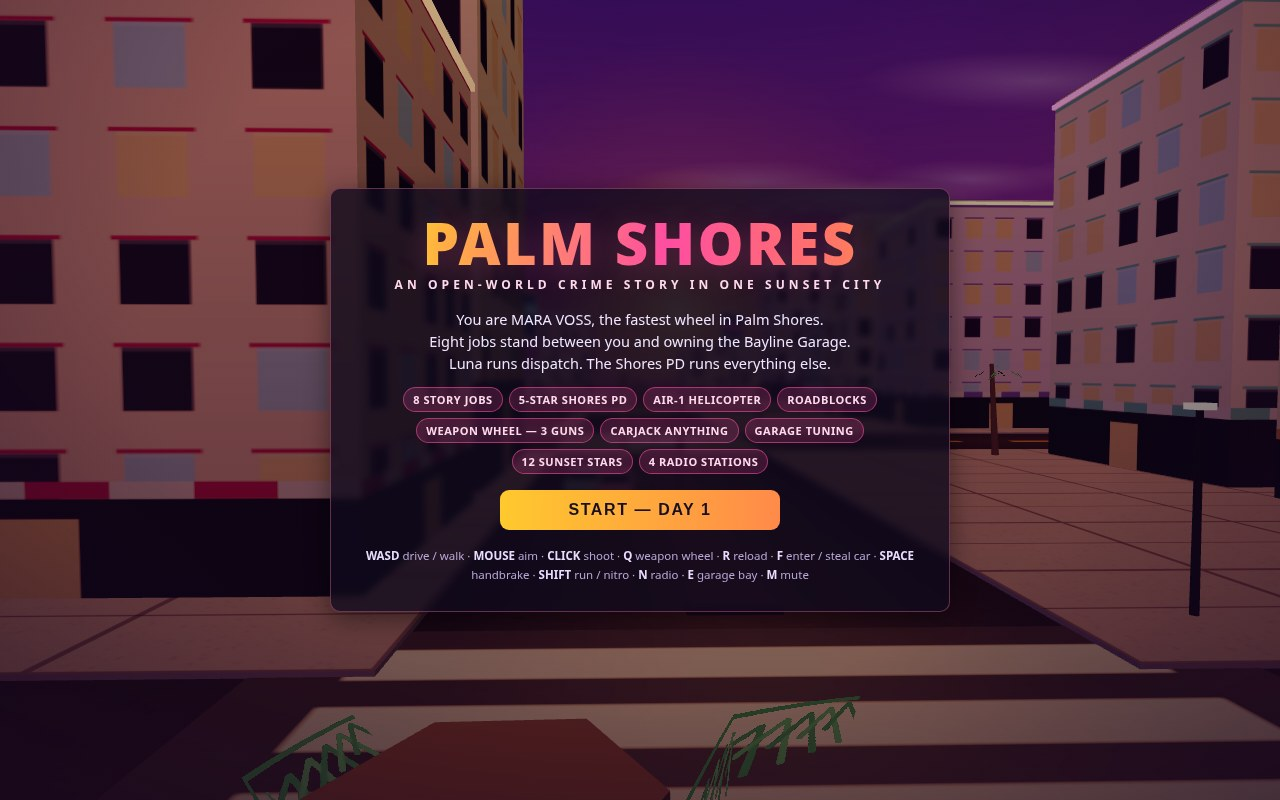
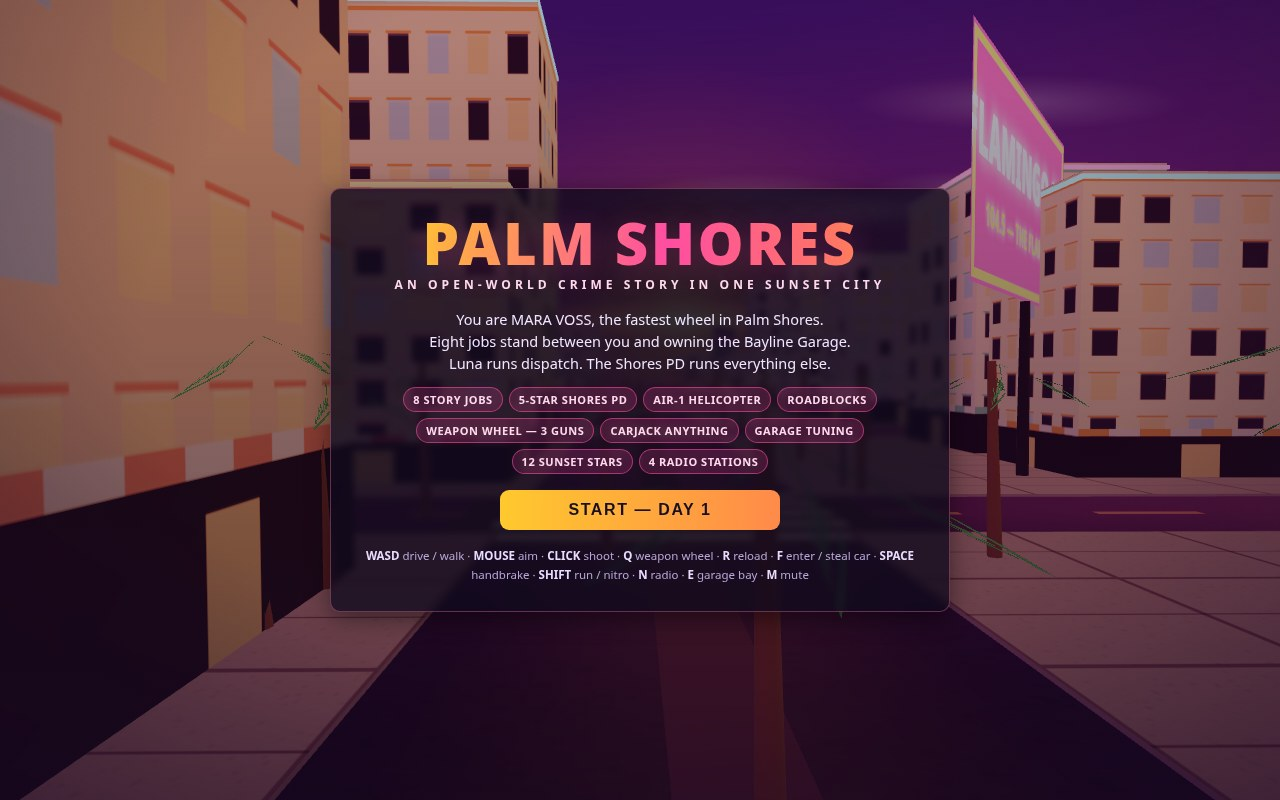
Round 6 visual pass — wet glossy neon look: sunset environment reflections on asphalt and paint, cruiser strobe halos and under-glow, hero-car light pool, denser bigger avenue palms, neon blade signs with road bleed, lamp halos, sun glare streak, richer exposure

diff --git a/game/src/city.js b/game/src/city.js
@@ -25,8 +25,8 @@ function palmCrownGeometry(leafTex) {
   for (let f = 0; f < 8; f++) {
     const a = (f / 8) * Math.PI * 2, ca = Math.cos(a), sa = Math.sin(a);
     const px = -sa, pz = ca, base = f * 4;
-    const tipX = ca * 3.1, tipZ = sa * 3.1;
-    pos.push(-px * 0.06, 0, -pz * 0.06, px * 0.06, 0, pz * 0.06, tipX - px * 0.3, -1.0, tipZ - pz * 0.3, tipX + px * 0.3, -1.0, tipZ + pz * 0.3);
+    const tipX = ca * 3.9, tipZ = sa * 3.9;
+    pos.push(-px * 0.06, 0, -pz * 0.06, px * 0.06, 0, pz * 0.06, tipX - px * 0.3, -1.3, tipZ - pz * 0.3, tipX + px * 0.3, -1.3, tipZ + pz * 0.3);
     uv.push(0, 0, 1, 0, 0.08, 1, 0.92, 1);
     idx.push(base, base + 1, base + 2, base + 1, base + 3, base + 2);
   }
@@ -48,6 +48,7 @@ export function buildWorld(scene, rng) {
 
   // ---- sky, light and air -------------------------------------------------
   scene.fog = new THREE.Fog(0xc64b74, 90, 460);
+  scene.environment = TX.sunsetEnvTexture(); // the sunset every glossy surface reflects
   const sky = new THREE.Mesh(new THREE.SphereGeometry(880, 24, 16),
     new THREE.MeshBasicMaterial({ map: TX.skyTexture(), side: THREE.BackSide, fog: false }));
   scene.add(sky);
@@ -60,6 +61,9 @@ export function buildWorld(scene, rng) {
   const sunHalo = new THREE.Sprite(new THREE.SpriteMaterial({ map: glowTex, color: 0xff7a9c, transparent: true, opacity: 0.3, fog: false, depthWrite: false }));
   sunHalo.position.copy(sunSprite.position); sunHalo.scale.setScalar(620); scene.add(sunHalo);
   scene.add(sunCore);
+  // horizontal glare streak through the sun — the lens flare of the reference shot
+  const flare = new THREE.Sprite(new THREE.SpriteMaterial({ map: glowTex, color: 0xffb37a, transparent: true, opacity: 0.5, fog: false, depthWrite: false, blending: THREE.AdditiveBlending }));
+  flare.position.copy(sunSprite.position); flare.scale.set(620, 46, 1); scene.add(flare);
   scene.add(new THREE.HemisphereLight(0xffc79a, 0x4a2a63, 1.35));
   // warm sky bounce from the east, so faces turned from the sun still read
   const bounce = new THREE.DirectionalLight(0xff8a66, 0.55);
@@ -97,7 +101,7 @@ export function buildWorld(scene, rng) {
   const base = new THREE.Mesh(new THREE.PlaneGeometry(1500, 1500), new THREE.MeshStandardMaterial({ color: 0x241a30, roughness: 1 }));
   base.rotation.x = -Math.PI / 2; base.position.y = -0.05; base.receiveShadow = true; scene.add(base);
   const roadTex = TX.roadTexture();
-  const roadMat = new THREE.MeshStandardMaterial({ map: roadTex, roughness: 0.38, metalness: 0.55 });
+  const roadMat = new THREE.MeshStandardMaterial({ map: roadTex, roughness: 0.18, metalness: 0.7, envMapIntensity: 1.4 });
   const cwMat = new THREE.MeshStandardMaterial({ map: TX.crosswalkTexture(), roughness: 0.7 });
   const span = P * 7 + CITY.road;
   for (const c of ROAD_CENTERS) {
@@ -281,6 +285,11 @@ export function buildWorld(scene, rng) {
   }
   for (let s = -190; s <= 190; s += 24) palmSpots.push({ x: 230, z: s });
   for (let k = -3; k < 3; k++) palmSpots.push({ x: k * P + P / 2, z: 0, median: true });
+  // Sunset Avenue gets a dense double row, big crowns leaning over the lanes
+  for (let s = -204; s <= 204; s += 17) {
+    palmSpots.push({ x: s, z: -12.8, big: true });
+    palmSpots.push({ x: s + 8, z: 12.8, big: true });
+  }
   const trunkGeo = new THREE.CylinderGeometry(0.13, 0.24, 6.4, 6);
   trunkGeo.translate(0, 3.2, 0);
   const trunkMat = new THREE.MeshStandardMaterial({ color: 0x7a5a40, roughness: 1 });
@@ -289,7 +298,7 @@ export function buildWorld(scene, rng) {
   const crowns = new THREE.InstancedMesh(palmCrownGeometry(), crownMat, palmSpots.length);
   const dummy = new THREE.Object3D();
   palmSpots.forEach((p, i) => {
-    const lean = rngRange(rng, -0.09, 0.09), h = p.median ? 0.85 : rngRange(rng, 0.85, 1.2);
+    const lean = rngRange(rng, -0.09, 0.09), h = p.big ? rngRange(rng, 1.25, 1.55) : p.median ? 1.05 : rngRange(rng, 0.95, 1.3);
     dummy.position.set(p.x, 0, p.z);
     dummy.rotation.set(lean, rng() * Math.PI * 2, lean * 0.7);
     dummy.scale.setScalar(h); dummy.updateMatrix();
@@ -314,6 +323,35 @@ export function buildWorld(scene, rng) {
     dummy.position.y = 5.65; dummy.updateMatrix(); bulbs.setMatrixAt(i, dummy.matrix);
   });
   scene.add(lamps); scene.add(bulbs);
+
+  // ---- Sunset Avenue dressing: lamp halos and neon blade signs -------------
+  const lampGlowTex = TX.glowTexture('rgba(255,214,150,1)', 'rgba(255,160,60,0)');
+  for (const p of lampSpots) {
+    const halo = new THREE.Sprite(new THREE.SpriteMaterial({ map: lampGlowTex, color: 0xffc46b, transparent: true, opacity: 0.4, blending: THREE.AdditiveBlending, depthWrite: false }));
+    halo.position.set(p.x, 5.65, p.z); halo.scale.setScalar(3.4); scene.add(halo);
+  }
+  const NEON_SIGNS = [
+    { x: -166, z: -13.4, text: 'HOTEL', color: '#ff4fa3', hex: 0xff4fa3 },
+    { x: -76, z: 13.4, text: 'SOLANA', color: '#22d3ee', hex: 0x22d3ee },
+    { x: 14, z: -13.4, text: 'MARINA', color: '#ffd23e', hex: 0xffd23e },
+    { x: 92, z: 13.4, text: 'BAHIA', color: '#7dff6a', hex: 0x7dff6a },
+    { x: 154, z: -13.4, text: 'CLUB', color: '#ff8c42', hex: 0xff8c42 },
+    { x: 202, z: 13.4, text: 'NEON', color: '#e0527a', hex: 0xe0527a },
+  ];
+  const poleMat = new THREE.MeshStandardMaterial({ color: 0x1c1428, roughness: 0.8 });
+  for (const s of NEON_SIGNS) {
+    const pole = new THREE.Mesh(new THREE.CylinderGeometry(0.09, 0.11, 8.4, 6), poleMat);
+    pole.position.set(s.x, 4.2, s.z); scene.add(pole);
+    const blade = new THREE.Mesh(new THREE.PlaneGeometry(1.7, 5.2),
+      new THREE.MeshBasicMaterial({ map: TX.neonSignTexture(s.text, s.color), side: THREE.DoubleSide }));
+    blade.position.set(s.x, 5.6, s.z); blade.rotation.y = s.z < 0 ? 0 : Math.PI; scene.add(blade);
+    const halo = new THREE.Sprite(new THREE.SpriteMaterial({ map: lampGlowTex, color: s.hex, transparent: true, opacity: 0.32, blending: THREE.AdditiveBlending, depthWrite: false }));
+    halo.position.set(s.x, 5.6, s.z); halo.scale.set(6, 9, 1); scene.add(halo);
+    // the sign's colour bleeding onto the wet asphalt below
+    const bleed = new THREE.Mesh(new THREE.PlaneGeometry(5, 11),
+      new THREE.MeshBasicMaterial({ map: lampGlowTex, color: s.hex, transparent: true, opacity: 0.20, blending: THREE.AdditiveBlending, depthWrite: false, fog: false }));
+    bleed.rotation.x = -Math.PI / 2; bleed.position.set(s.x, 0.05, s.z * 0.55); bleed.renderOrder = 2; scene.add(bleed);
+  }
 
   // beach umbrellas on Coral Strand, like the ones in every holiday photo
   const umbMat = new THREE.MeshStandardMaterial({ color: 0xff5c7a, roughness: 0.8, side: THREE.DoubleSide });

diff --git a/game/src/vehicles.js b/game/src/vehicles.js
@@ -7,13 +7,21 @@ import * as THREE from 'three';
 import { TRAFFIC_MODELS, TRAFFIC_COLORS } from './config.js';
 import { rngPick, rngRange, clamp } from './random.js';
 import { ROAD_CENTERS } from './city.js';
-import { signTexture } from './textures.js';
+import { signTexture, glowTexture } from './textures.js';
 
-const glassMat = new THREE.MeshStandardMaterial({ color: 0x141c2c, metalness: 0.7, roughness: 0.15 });
+const glassMat = new THREE.MeshStandardMaterial({ color: 0x141c2c, metalness: 0.7, roughness: 0.08, envMapIntensity: 1.6 });
 const tireMat = new THREE.MeshStandardMaterial({ color: 0x0d0d10, roughness: 0.95 });
 const rimMat = new THREE.MeshStandardMaterial({ color: 0xb8c4ce, metalness: 0.8, roughness: 0.35 });
 const chromeMat = new THREE.MeshStandardMaterial({ color: 0xd8dee6, metalness: 0.9, roughness: 0.2 });
-const tailMat = new THREE.MeshStandardMaterial({ color: 0x30060c, emissive: 0xff2233, emissiveIntensity: 1.6 });
+const tailMat = new THREE.MeshStandardMaterial({ color: 0x30060c, emissive: 0xff2233, emissiveIntensity: 2.8 });
+let glowTexShared = null;
+const glowTex = () => glowTexShared ??= glowTexture();
+// A soft pool of coloured light the car throws onto the wet asphalt.
+function underGlow(g, color, w, l, opacity, x = 0) {
+  const m = new THREE.Mesh(new THREE.PlaneGeometry(w, l),
+    new THREE.MeshBasicMaterial({ map: glowTex(), color, transparent: true, opacity, blending: THREE.AdditiveBlending, depthWrite: false, fog: false }));
+  m.rotation.x = -Math.PI / 2; m.position.set(x, 0.06, 0); m.renderOrder = 2; g.add(m);
+}
 const headMat = new THREE.MeshStandardMaterial({ color: 0x444033, emissive: 0xffe9b0, emissiveIntensity: 2.4 });
 let pdDoorTex = null;
 
@@ -24,7 +32,7 @@ function box(w, h, d, mat, x, y, z, parent) {
 
 export function makeCarEntity(scene, { kind = 'sedan', color = 0xffffff, police = false, model = '' } = {}) {
   const g = new THREE.Group();
-  const paint = new THREE.MeshStandardMaterial({ color: police ? 0x15151c : color, metalness: 0.3, roughness: 0.3, emissive: police ? 0x000000 : new THREE.Color(color).multiplyScalar(0.14) });
+  const paint = new THREE.MeshStandardMaterial({ color: police ? 0x15151c : color, metalness: 0.45, roughness: 0.16, envMapIntensity: 1.5, emissive: police ? 0x000000 : new THREE.Color(color).multiplyScalar(0.14) });
   const dims = { coupe: [1.86, 4.35, 0.46], sedan: [1.84, 4.5, 0.6], hatch: [1.8, 3.9, 0.62], pickup: [1.95, 4.9, 0.72], van: [2.0, 4.7, 0.8], taxi: [1.84, 4.5, 0.6], cruiser: [1.9, 4.7, 0.62] }[kind] || [1.84, 4.5, 0.6];
   const [W, L, bodyH] = dims;
   box(W, bodyH, L, paint, 0, 0.42 + bodyH / 2, 0, g);                       // body
@@ -41,6 +49,10 @@ export function makeCarEntity(scene, { kind = 'sedan', color = 0xffffff, police 
     cab.scale.z = 0.92;
     box(W * 0.82, 0.06, L * 0.38, paint, 0, 1.17 + bodyH * 0.4, -L * 0.05, g); // roof
     box(W * 0.97, 0.2, L * 0.16, paint, 0, 0.62, L * 0.42, g);               // nose
+    for (const s of [-1, 1]) { // mirrors on slim stalks
+      box(0.05, 0.04, 0.12, paint, s * (W / 2 + 0.05), 1.04, L * 0.16, g);
+      box(0.05, 0.11, 0.2, glassMat, s * (W / 2 + 0.1), 1.08, L * 0.16, g);
+    }
   }
   if (kind === 'coupe') { // the Vespera's wing and diffuser
     box(W * 0.92, 0.07, 0.34, chromeMat, 0, 1.06, -L / 2 + 0.1, g);
@@ -67,7 +79,14 @@ export function makeCarEntity(scene, { kind = 'sedan', color = 0xffffff, police 
     box(0.55, 0.14, 0.3, red, -0.3, 0, 0, bar); box(0.55, 0.14, 0.3, blue, 0.3, 0, 0, bar);
     bar.position.set(0, 1.66, -L * 0.04); g.add(bar);
     g.userData.lightbar = { red, blue };
+    // strobe halos + the red/blue wash the bar throws on the wet road
+    for (const [sx, col] of [[-0.32, 0xff2038], [0.32, 0x2255ff]]) {
+      const halo = new THREE.Sprite(new THREE.SpriteMaterial({ map: glowTex(), color: col, transparent: true, opacity: 0.5, blending: THREE.AdditiveBlending, depthWrite: false, fog: false }));
+      halo.position.set(sx, 1.7, -L * 0.04); halo.scale.setScalar(2.6); g.add(halo);
+      underGlow(g, col, 1.9, L * 1.35, 0.30, sx * 2.4);
+    }
   }
+  if (kind === 'coupe' && !police) underGlow(g, color, 3.4, L * 1.3, 0.30); // the Vespera's pink sheen on the asphalt
   // lights
   box(0.34, 0.12, 0.06, headMat, -W * 0.3, 0.72, L / 2 + 0.01, g);
   box(0.34, 0.12, 0.06, headMat, W * 0.3, 0.72, L / 2 + 0.01, g);

diff --git a/game/src/textures.js b/game/src/textures.js
@@ -161,6 +161,49 @@ export function signTexture(text, bg, fg) {
   return t;
 }
 
+// Equirect sunset for scene.environment: every glossy surface in the city —
+// wet asphalt, coupe paint, glass — reflects this sky, so the whole frame
+// picks up the pink/orange neon sheen of the golden hour.
+export function sunsetEnvTexture() {
+  const c = canvas(512, 256), g = c.getContext('2d');
+  const grad = g.createLinearGradient(0, 0, 0, 256);
+  grad.addColorStop(0.0, '#241448'); grad.addColorStop(0.38, '#5c2064');
+  grad.addColorStop(0.55, '#c94b74'); grad.addColorStop(0.64, '#ff8a4a');
+  grad.addColorStop(0.70, '#ffc46b'); grad.addColorStop(0.76, '#7a3a56');
+  grad.addColorStop(1.0, '#1c1026');
+  g.fillStyle = grad; g.fillRect(0, 0, 512, 256);
+  // the sun: a hard bright blob low on the horizon
+  const sun = g.createRadialGradient(128, 168, 2, 128, 168, 90);
+  sun.addColorStop(0, 'rgba(255,246,200,1)'); sun.addColorStop(0.25, 'rgba(255,190,90,0.85)');
+  sun.addColorStop(1, 'rgba(255,140,80,0)');
+  g.fillStyle = sun; g.fillRect(0, 60, 512, 216);
+  // neon smears in the lower half — city lights waiting to be reflected
+  const smears = ['#ff4fa3', '#22d3ee', '#ffd23e', '#e0527a', '#7dff6a', '#ff8c42'];
+  for (let i = 0; i < 42; i++) {
+    g.fillStyle = smears[i % smears.length] + '55';
+    const w = 6 + Math.random() * 26;
+    g.fillRect(Math.random() * 512, 176 + Math.random() * 62, w, 2.5 + Math.random() * 4);
+  }
+  const t = tex(c); t.wrapS = t.wrapT = THREE.ClampToEdgeWrapping;
+  t.mapping = THREE.EquirectangularReflectionMapping;
+  return t;
+}
+
+// A vertical neon sign, letters stacked down a dark blade — hotel, marina,
+// club names along Sunset Avenue, all original Palm Shores businesses.
+export function neonSignTexture(text, fg) {
+  const c = canvas(128, 512), g = c.getContext('2d');
+  g.fillStyle = '#120a1e'; g.fillRect(0, 0, 128, 512);
+  g.strokeStyle = fg; g.lineWidth = 4; g.globalAlpha = 0.8; g.strokeRect(8, 8, 112, 496); g.globalAlpha = 1;
+  g.fillStyle = fg; g.font = '800 62px system-ui, sans-serif'; g.textAlign = 'center'; g.textBaseline = 'middle';
+  g.shadowColor = fg; g.shadowBlur = 16;
+  const letters = text.split('');
+  const step = Math.min(72, 470 / letters.length);
+  letters.forEach((ch, i) => g.fillText(ch, 64, 46 + i * step));
+  const t = tex(c); t.wrapS = t.wrapT = THREE.ClampToEdgeWrapping;
+  return t;
+}
+
 // Weathered pier deck: plank runs with tar seams, stains and a painted safety line.
 export function pierTexture() {
   const c = canvas(256, 256), g = c.getContext('2d');

diff --git a/game/src/shots.js b/game/src/shots.js
@@ -115,8 +115,8 @@ export function stageShot(game, name) {
     game.setInCar(true);
     game.heroCar.setPos(30, 3.4, -Math.PI / 2);
     game.heroCar.speed = 12;
-    game.camera.position.set(68, 6.5, 3);
-    game.camera.lookAt(-60, 1.8, 0);
+    game.camera.position.set(97, 7.5, 2);
+    game.camera.lookAt(-70, 2, 0);
     game.camera.fov = 58; game.camera.updateProjectionMatrix();
     hud.showStart(game.save, game.storyLines);
     document.getElementById('hud').style.display = 'none';

diff --git a/game/src/main.js b/game/src/main.js
@@ -35,7 +35,7 @@ renderer.shadowMap.enabled = true;
 renderer.shadowMap.type = THREE.PCFSoftShadowMap;
 renderer.outputColorSpace = THREE.SRGBColorSpace;
 renderer.toneMapping = THREE.ACESFilmicToneMapping;
-renderer.toneMappingExposure = 1.12;
+renderer.toneMappingExposure = 1.22;
 document.getElementById('app').appendChild(renderer.domElement);
 
 const scene = new THREE.Scene();
